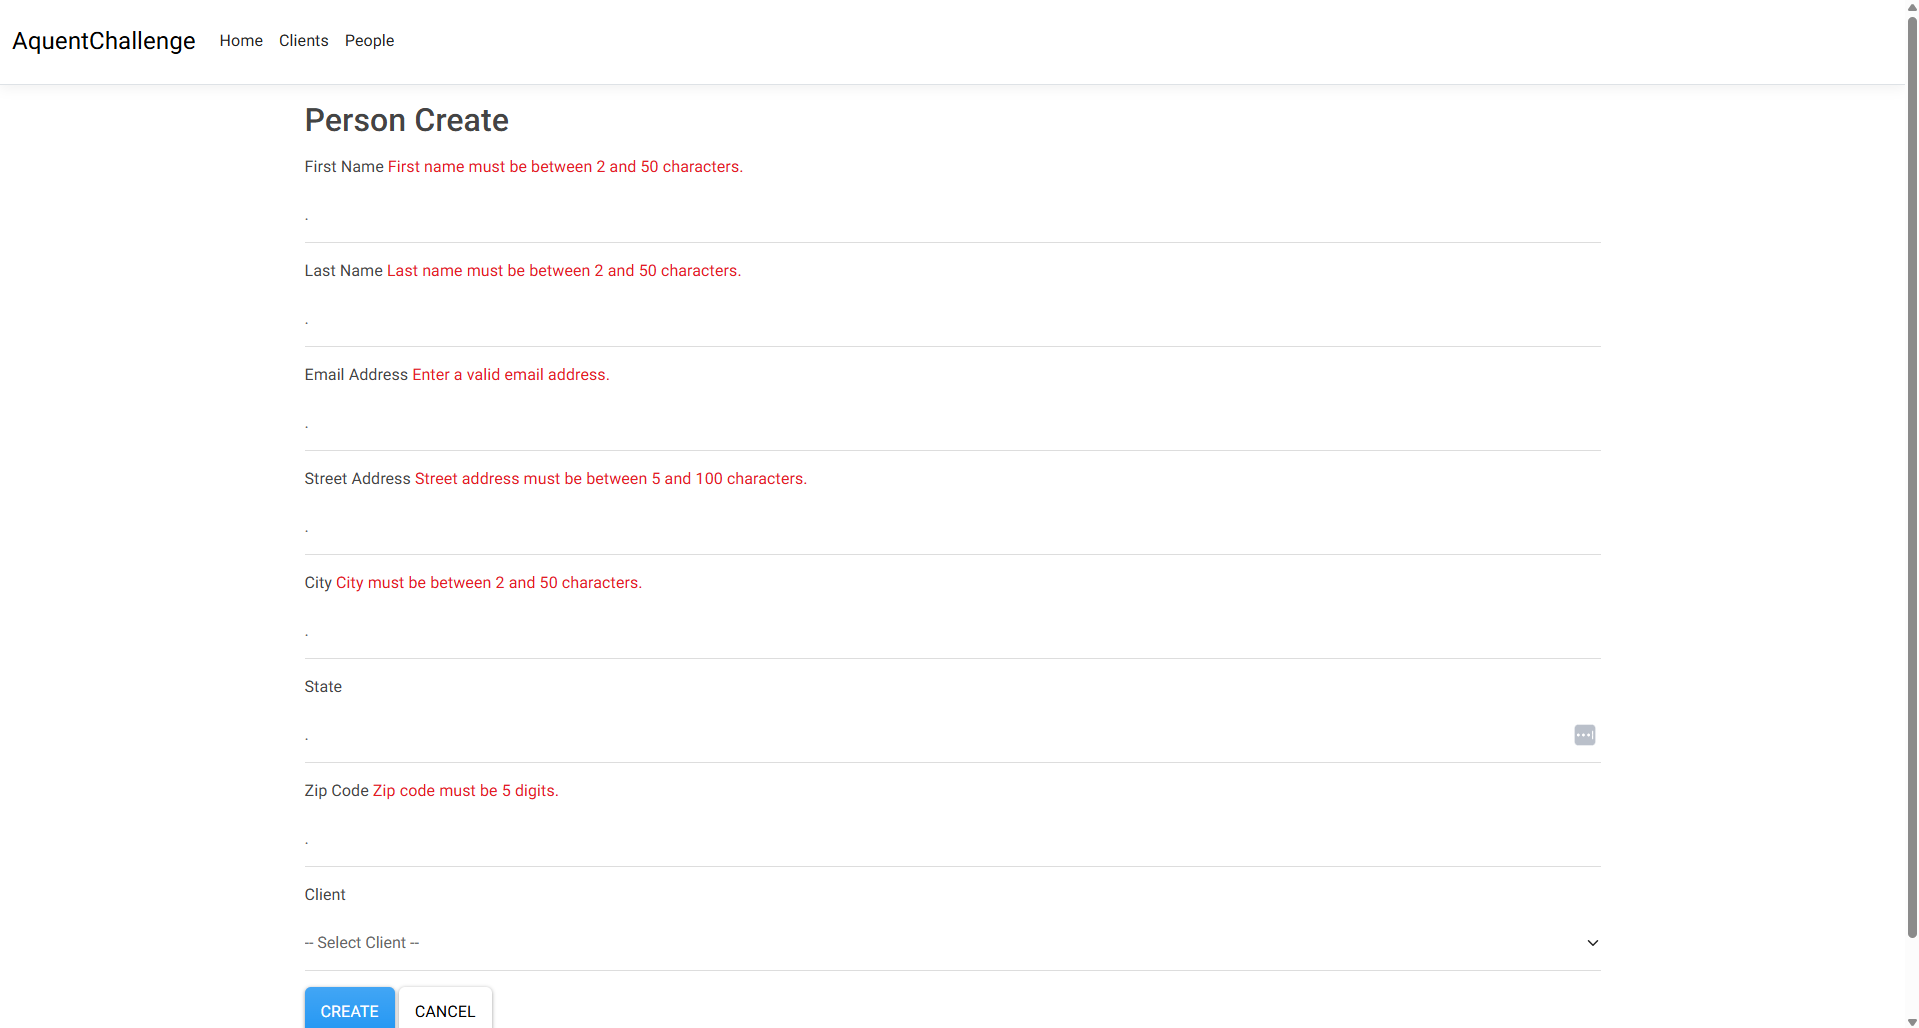
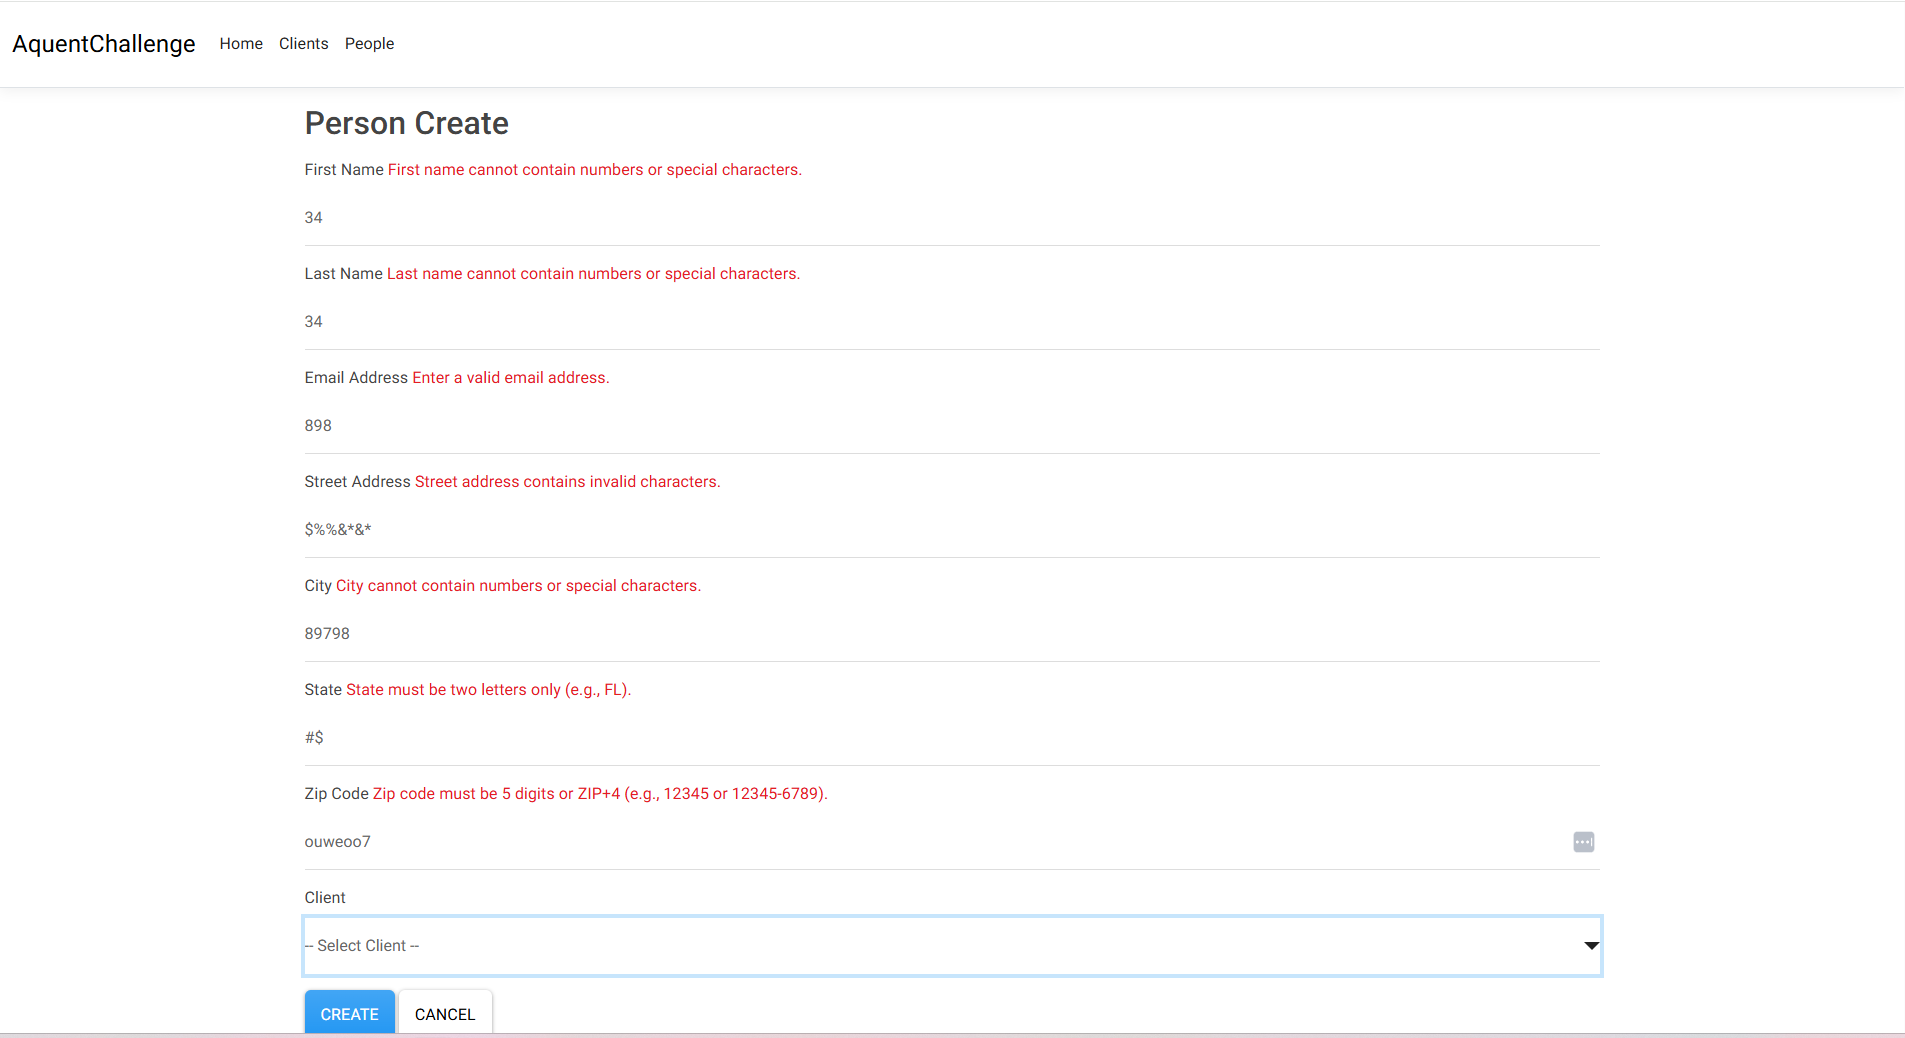
Enhance data annotations validation. Add readme images.

diff --git a/AquentChallenge/AquentChallenge/Models/ViewModels/PersonFormViewModel.cs b/AquentChallenge/AquentChallenge/Models/ViewModels/PersonFormViewModel.cs
@@ -6,28 +6,33 @@ namespace AquentChallenge.Models.ViewModels
     {
         public int Id { get; set; }
 
-        [Required]
+        [Required(ErrorMessage = "First name is required.")]
         [StringLength(50, MinimumLength = 2, ErrorMessage = "First name must be between 2 and 50 characters.")]
+        [RegularExpression(@"^[A-Za-z\s\-']+$", ErrorMessage = "First name cannot contain numbers or special characters.")]
         public string FirstName { get; set; } = string.Empty;
 
-        [Required]
+        [Required(ErrorMessage = "Last name is required.")]
         [StringLength(50, MinimumLength = 2, ErrorMessage = "Last name must be between 2 and 50 characters.")]
+        [RegularExpression(@"^[A-Za-z\s\-']+$", ErrorMessage = "Last name cannot contain numbers or special characters.")]
         public string LastName { get; set; } = string.Empty;
 
         [EmailAddress(ErrorMessage = "Enter a valid email address.")]
-        [StringLength(50, ErrorMessage = "Email must be at most 50 characters.")]
+        [StringLength(100, ErrorMessage = "Email must be at most 100 characters.")]
         public string EmailAddress { get; set; } = string.Empty;
 
         [StringLength(100, MinimumLength = 5, ErrorMessage = "Street address must be between 5 and 100 characters.")]
+        [RegularExpression(@"^[A-Za-z0-9\s.'#,-]+$", ErrorMessage = "Street address contains invalid characters.")]
         public string StreetAddress { get; set; } = string.Empty;
 
         [StringLength(50, MinimumLength = 2, ErrorMessage = "City must be between 2 and 50 characters.")]
+        [RegularExpression(@"^[A-Za-z\s\-']+$", ErrorMessage = "City cannot contain numbers or special characters.")]
         public string City { get; set; } = string.Empty;
 
         [StringLength(2, ErrorMessage = "State must be 2 characters (e.g., FL).")]
+        [RegularExpression(@"^[A-Za-z]{2}$", ErrorMessage = "State must be two letters only (e.g., FL).")]
         public string State { get; set; } = string.Empty;
 
-        [RegularExpression(@"^\d{5}$", ErrorMessage = "Zip code must be 5 digits.")]
+        [RegularExpression(@"^\d{5}(-\d{4})?$", ErrorMessage = "Zip code must be 5 digits or ZIP+4 (e.g., 12345 or 12345-6789).")]
         public string ZipCode { get; set; } = string.Empty;
 
         public int? ClientId { get; set; }

diff --git a/AquentChallenge/AquentChallenge/Models/ViewModels/ClientFormViewModel.cs b/AquentChallenge/AquentChallenge/Models/ViewModels/ClientFormViewModel.cs
@@ -14,11 +14,12 @@ namespace AquentChallenge.Models.ViewModels
         [Url(ErrorMessage = "Please enter a valid URL (include http:// or https://).")]
         public string? Website { get; set; }
 
-        [StringLength(25, MinimumLength = 10)]
-        [Phone(ErrorMessage = "Please enter a valid phone number.")]
+        [StringLength(25, MinimumLength = 10, ErrorMessage = "Phone number must be between 10 and 25 characters.")]
+        [RegularExpression(@"^\(?\d{3}\)?[-.\s]?\d{3}[-.\s]?\d{4}$", ErrorMessage = "Phone must be a valid U.S. format (e.g., (555) 555-5555).")]
         public string? Phone { get; set; }
 
-        [StringLength(200, MinimumLength = 5, ErrorMessage = "Address must be at least 5 characters.")]
+        [StringLength(200, MinimumLength = 5, ErrorMessage = "Address must be between 5 and 200 characters.")]
+        [RegularExpression(@"^[A-Za-z0-9\s.,#'\-]+$", ErrorMessage = "Address contains invalid characters.")]
         public string? Address { get; set; }
 
         // UI-specific fields (not in DB)
